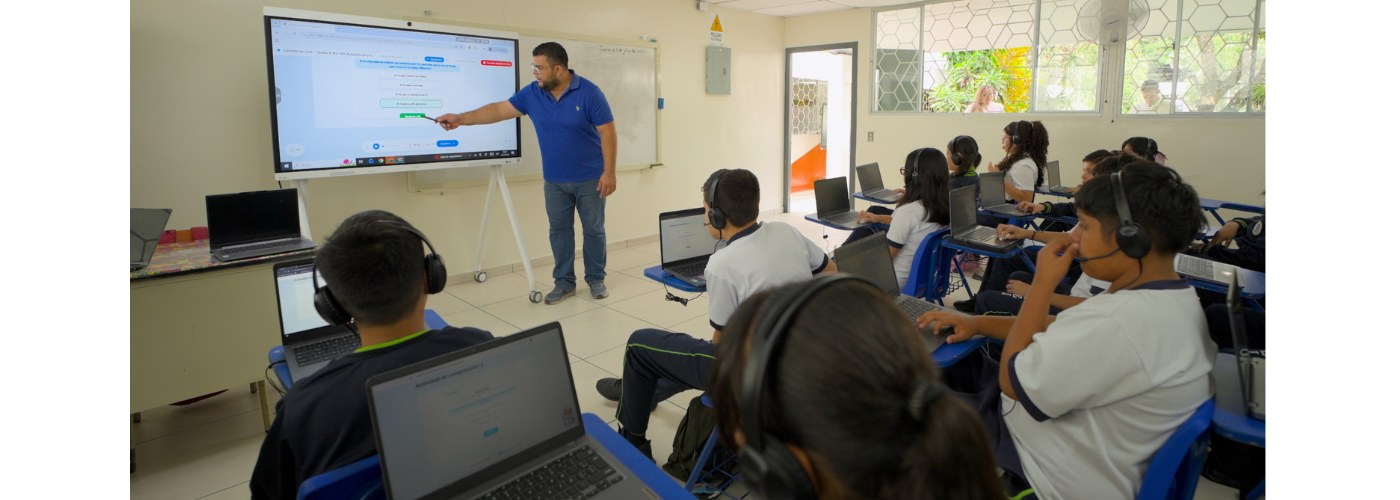
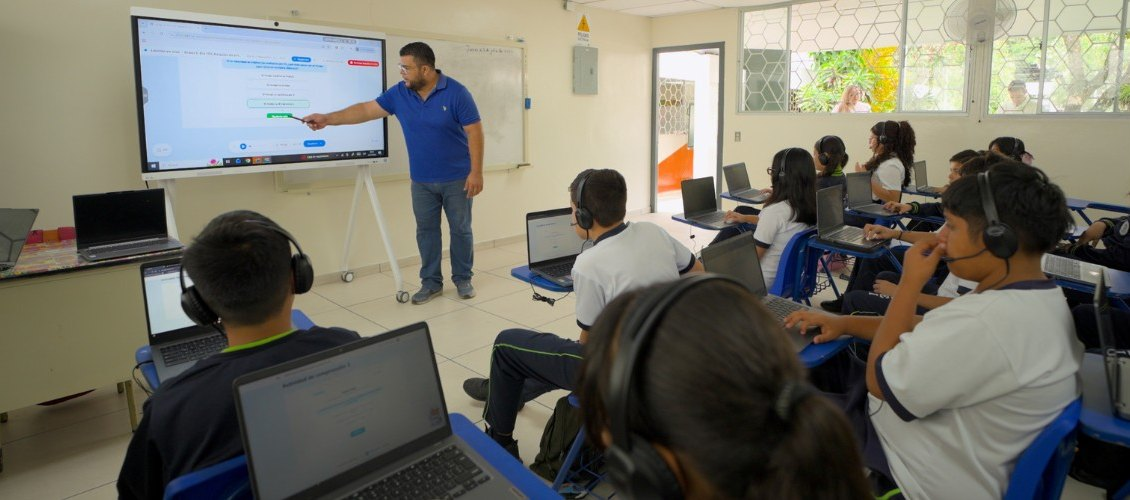
El Salvador: foto sin las franjas blancas de los costados

diff --git a/iniciativas/el-salvador.html b/iniciativas/el-salvador.html
@@ -457,7 +457,7 @@
         <p class="hero-lede" data-i18n="hero.lede">Desde 2024, El Salvador moderniza su educación pública con un objetivo: mejorar los aprendizajes en matemática y lectura. Currículo, materiales, apoyo docente, evaluación y tecnología avanzan juntos, y la inteligencia artificial acelera ese trabajo sin reemplazar al docente.</p>
       </div>
       <figure class="banner">
-        <img src="../img/el-salvador-blog.jpg" alt="" width="1400" height="500" />
+        <img src="../img/el-salvador-blog.jpg" alt="" />
         <figcaption data-i18n="hero.caption">Escuela participante del programa de modernización educativa. Fotografía: Gerson Elizondo / Banco Mundial</figcaption>
       </figure>
     </div>
